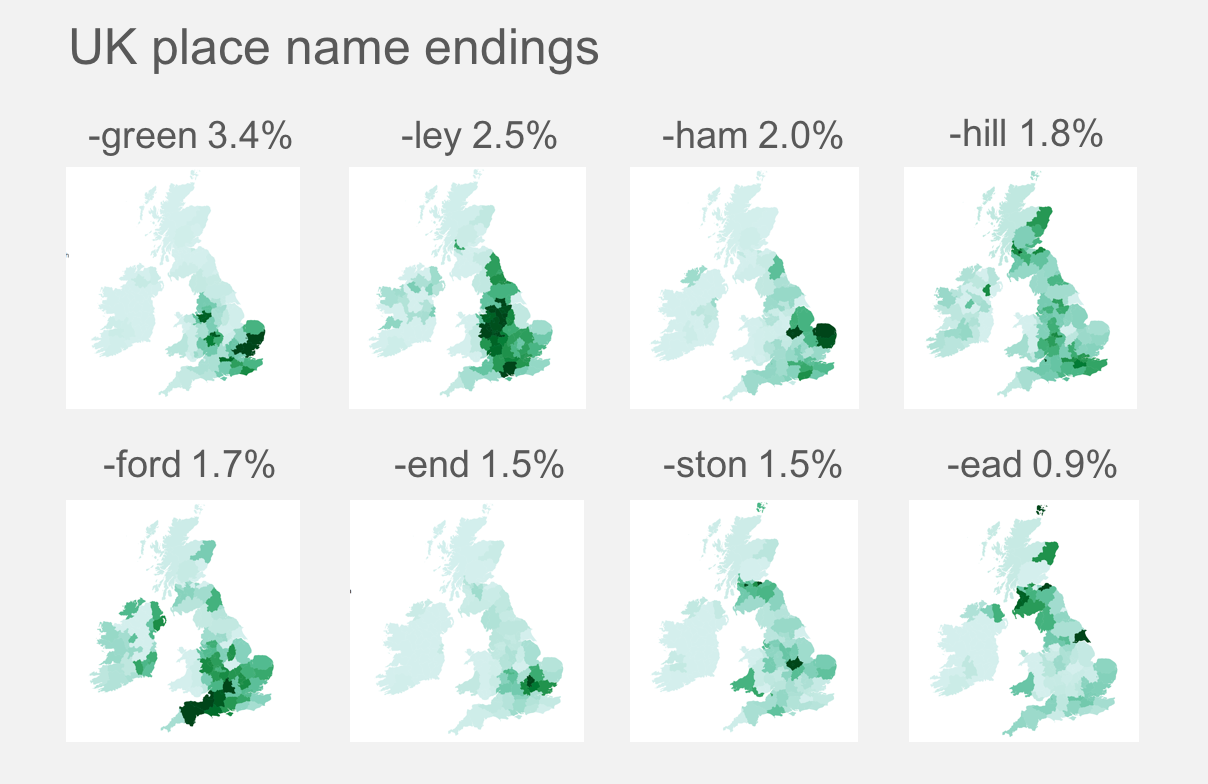
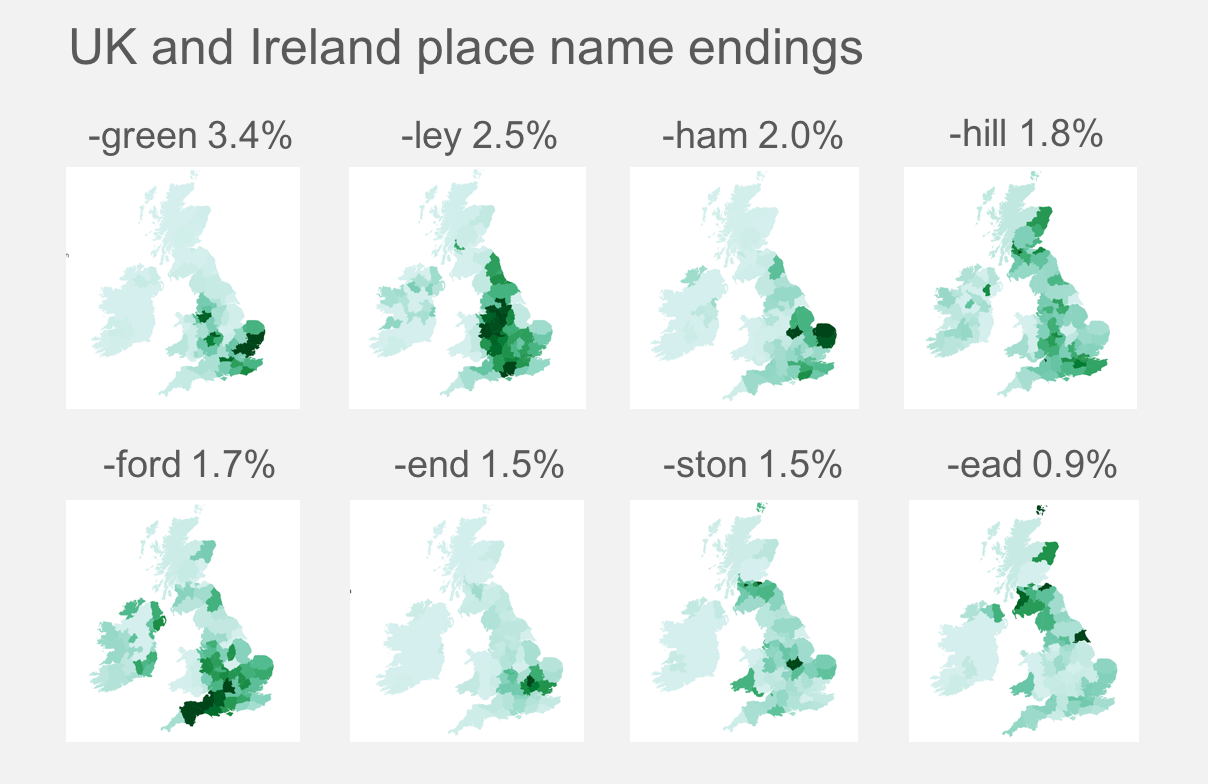
UK => UK and Ireland (#600)

Changed region(s): [[0.1225, 0.0306, 0.7351, 0.0918]]

diff --git a/ceberhardt/_posts/2017-06-25-uk-place-names.md b/ceberhardt/_posts/2017-06-25-uk-place-names.md
@@ -5,11 +5,11 @@ layout: default_post
 categories:
   - JavaScript
   - D3
-summary: UK place names are very much influenced by their surroundings, with endings such as -hill, -ford, and -wood quite clearly referencing local geography. This blog post uses the new NDJSON command line tools for processing, transforming and joining datasets to create an optimised visualisation.
+summary: Place names in UK and Ireland are very much influenced by their surroundings, with endings such as -hill, -ford, and -wood quite clearly referencing local geography. This blog post uses the new NDJSON command line tools for processing, transforming and joining datasets to create an optimised visualisation.
 image: ceberhardt/assets/featured/uk-place-names.png
 ---
 
-UK place names are very much influenced by their surroundings, with endings such as -hill, -ford, and -wood quite clearly referencing local geography. This post describes the creation of an interactive map that allows you to explore UK place name endings. The creation of this map involved using a number of the new D3 command line tools for manipulating geographic data, which allow the creation of optimised datasets that improve performance.
+Place names in UK and Ireland are very much influenced by their surroundings, with endings such as -hill, -ford, and -wood quite clearly referencing local geography. This post describes the creation of an interactive map that allows you to explore UK place name endings. The creation of this map involved using a number of the new D3 command line tools for manipulating geographic data, which allow the creation of optimised datasets that improve performance.
 
 If you're not so interested in the tech, here's an overview of the results:
 
